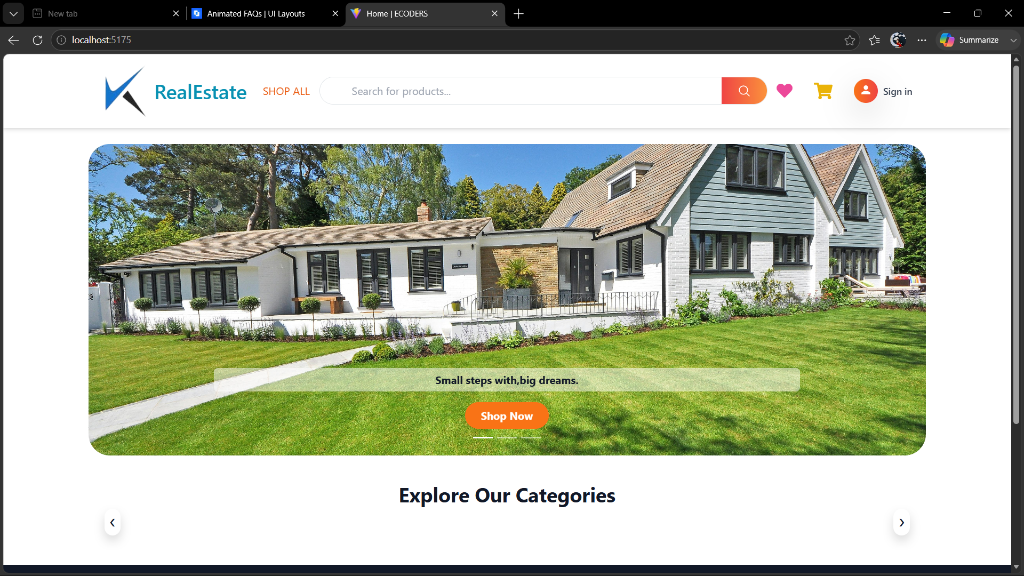
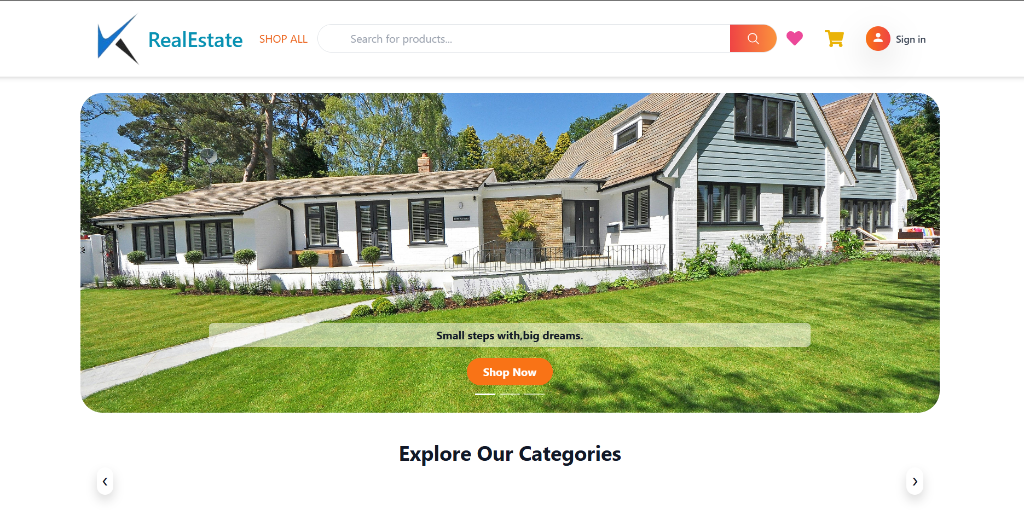
Updated portfolio design

diff --git a/components/portfolio/Portfolio.tsx b/components/portfolio/Portfolio.tsx
@@ -184,7 +184,7 @@ export default function Portfolio() {
                             <polyline points="15 3 21 3 21 9" />
                             <line x1="10" y1="14" x2="21" y2="3" />
                           </svg>
-                          <span>View on Github</span>
+                          <span>View Code on GitHub</span>
                         </a>
                       </div>
                     )}
